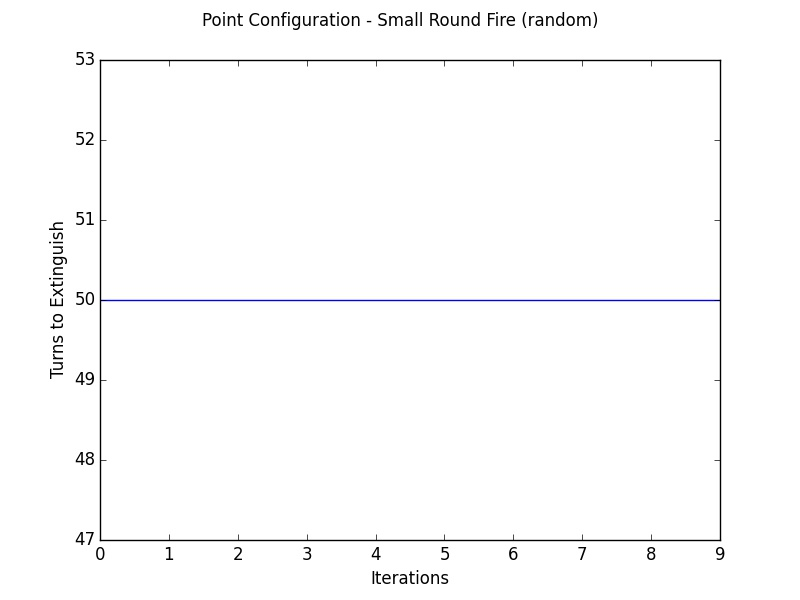
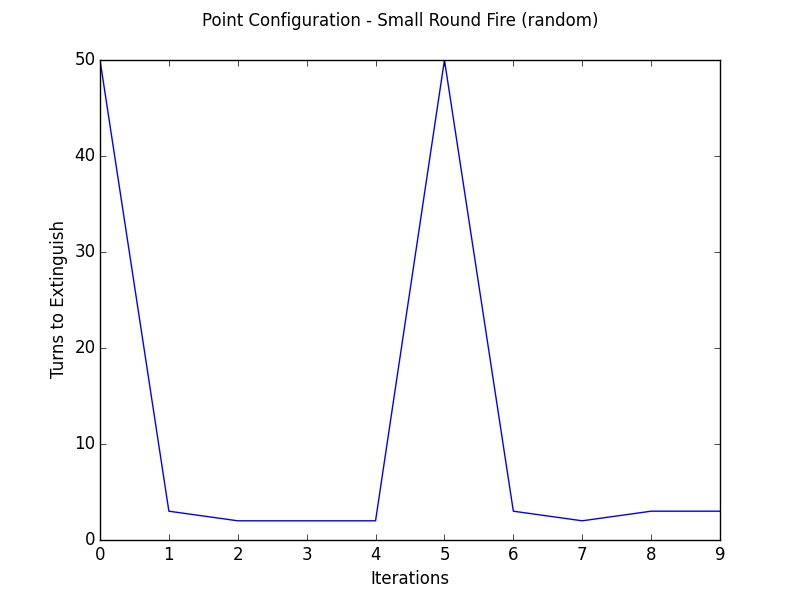
got some graphs

diff --git a/firetests.py b/firetests.py
@@ -174,10 +174,79 @@ fires.append(("Large Odd Fire", center, largeRadius, largeFireO))
 
 ###################################################################
 ## RUN TESTS
+# figIdx = 1
+# styles = ["Point Configuration - ", "Surround Configuration - ", "Optimal Configuration - "]
+# strats = ["random", "greedy"]
+# strats2 = ["random", "greedy", "optimal", "teamOptimal"]
+# for name, center, radius, cells in fires:
+# 	for configStyle in range(2): # 0 - point, 1 - surround, 2 - optimal
+# 		for strat in strats:
+# 			trials = 10
+# 			stepsToExtinguish = []
+
+# 			# Initialize figure
+# 			fig = plt.figure(figIdx)
+# 			fig.suptitle(styles[configStyle] + name + " (" + strat+ ")")
+# 			plt.xlabel('Iterations')
+# 			plt.ylabel('Turns to Extinguish')
+
+# 			# Run through trials, save outputs, and plot		
+# 			for tri in range(trials):
+# 				# Init
+# 				sim = firesim.AreaSimulation(testSize)
+# 				sim.initialize()
+
+# 				# Light the fire and count the num fires lit
+# 				c = 0
+# 				for x, y, inten in cells:
+# 					sim.grid[(x, y)].fire_inten = inten
+# 					c += 1
+# 				# sim.num_fires = c
+
+# 				if configStyle == 0:
+# 					ff_config = generatePointFFs(center, radius, point = 'top', numFFs = totalNumFFs)
+
+# 				elif configStyle == 1:
+# 					ff_config = generateSurroundFFs(center, radius, numFFs = totalNumFFs)
+
+# 				else:
+# 					ff_config = sim.best_ff_config(totalNumFFs)
+
+# 				for ff in ff_config:
+# 					ff2 = firesim.FireFighter(ff[0], ff[1], sim, style = strat, efficacy = 1)
+# 			    	sim.fight_fire(ff2)
+
+# 				# sim.gprint()
+# 			    # Run simulation
+# 				steps = 0
+# 				iters = 50
+
+# 				for itr in range(iters):
+# 					sim.gnew()
+# 					steps += 1
+# 					print sim.num_fires
+# 					if sim.num_fires == 0:
+# 						break
+# 				stepsToExtinguish.append(steps)
+# 				print "Done Trial with", steps, "steps"
+# 				# sim.gprint()	    	
+
+# 			print "Done. Plotting", styles[configStyle], name, strat
+# 			plt.plot(stepsToExtinguish)
+# 			fig.savefig(styles[configStyle] + name + strat + '.jpg')
+# 			figIdx += 1
+
+
+
+
+# Init
 figIdx = 1
+name, center, radius, cells = ("Small Round Fire", center, smallRadius, smallFireR)
 styles = ["Point Configuration - ", "Surround Configuration - ", "Optimal Configuration - "]
 strats = ["random", "greedy"]
 strats2 = ["random", "greedy", "optimal", "teamOptimal"]
+# print name, center, radius, cells
+# print "###"
 for name, center, radius, cells in fires:
 	for configStyle in range(2): # 0 - point, 1 - surround, 2 - optimal
 		for strat in strats:
@@ -189,19 +258,16 @@ for name, center, radius, cells in fires:
 			fig.suptitle(styles[configStyle] + name + " (" + strat+ ")")
 			plt.xlabel('Iterations')
 			plt.ylabel('Turns to Extinguish')
-
-			# Run through trials, save outputs, and plot		
-			for tri in range(trials):
-				# Init
+			for t in range(trials):
 				sim = firesim.AreaSimulation(testSize)
 				sim.initialize()
-
+			
 				# Light the fire and count the num fires lit
 				c = 0
 				for x, y, inten in cells:
 					sim.grid[(x, y)].fire_inten = inten
 					c += 1
-				sim.num_fires = c
+				# sim.num_fires = c
 
 				if configStyle == 0:
 					ff_config = generatePointFFs(center, radius, point = 'top', numFFs = totalNumFFs)
@@ -214,24 +280,23 @@ for name, center, radius, cells in fires:
 
 				for ff in ff_config:
 					ff2 = firesim.FireFighter(ff[0], ff[1], sim, style = strat, efficacy = 1)
-			    	sim.fight_fire(ff2)
+					sim.fight_fire(ff2)
 
 				# sim.gprint()
-			    # Run simulation
+				# Run simulation
 				steps = 0
 				iters = 50
 				for itr in range(iters):
 					sim.gnew()
 					steps += 1
-					print sim.num_fires
+					#print sim.num_fires
 					if sim.num_fires == 0:
 						break
 				stepsToExtinguish.append(steps)
 				print "Done Trial with", steps, "steps"
-				# sim.gprint()	    	
+
 
 			print "Done. Plotting", styles[configStyle], name, strat
 			plt.plot(stepsToExtinguish)
 			fig.savefig(styles[configStyle] + name + strat + '.jpg')
 			figIdx += 1
-

diff --git a/firesim.py b/firesim.py
@@ -212,7 +212,7 @@ class FireFighter:
                         max_move = (dx/mult, dy/mult)
             mult += 1
         if not max_move:
-            print "No more fire left"
+            #print "No more fire left"
             max_move = self.bestActionRandom(grid)
         act = max_move
         self.path.append(act)
@@ -263,8 +263,7 @@ class AreaSimulation:
         self.L = L
         self.time = 0
         self.firefighters = [[False for i in range(L)] for j in range(L)]
-        self.num_fires = 0
-        self.burning = 0  
+        self.num_fires = 0 
         
     def fight_fire(self, ff_info):
         self.grid[(ff_info.x, ff_info.y)].firefighter = True

diff --git a/TestApp.py b/TestApp.py
@@ -145,7 +145,7 @@ class FireApp(App):
                 sim.grid[(x, y)].fire_inten = inten
                 c += 1
             sim.num_fires = c
-            ff_config = firetests.generatePointFFs(center, radius, point = 'top', numFFs = totalNumFFs)
+            ff_config = firetests.generateSurroundFFs(center, radius, numFFs = totalNumFFs)
             for ff in ff_config:
                 ff = firesim.FireFighter(ff[0], ff[1], sim, style = 'greedy', efficacy = 1)
                 sim.fight_fire(ff)
